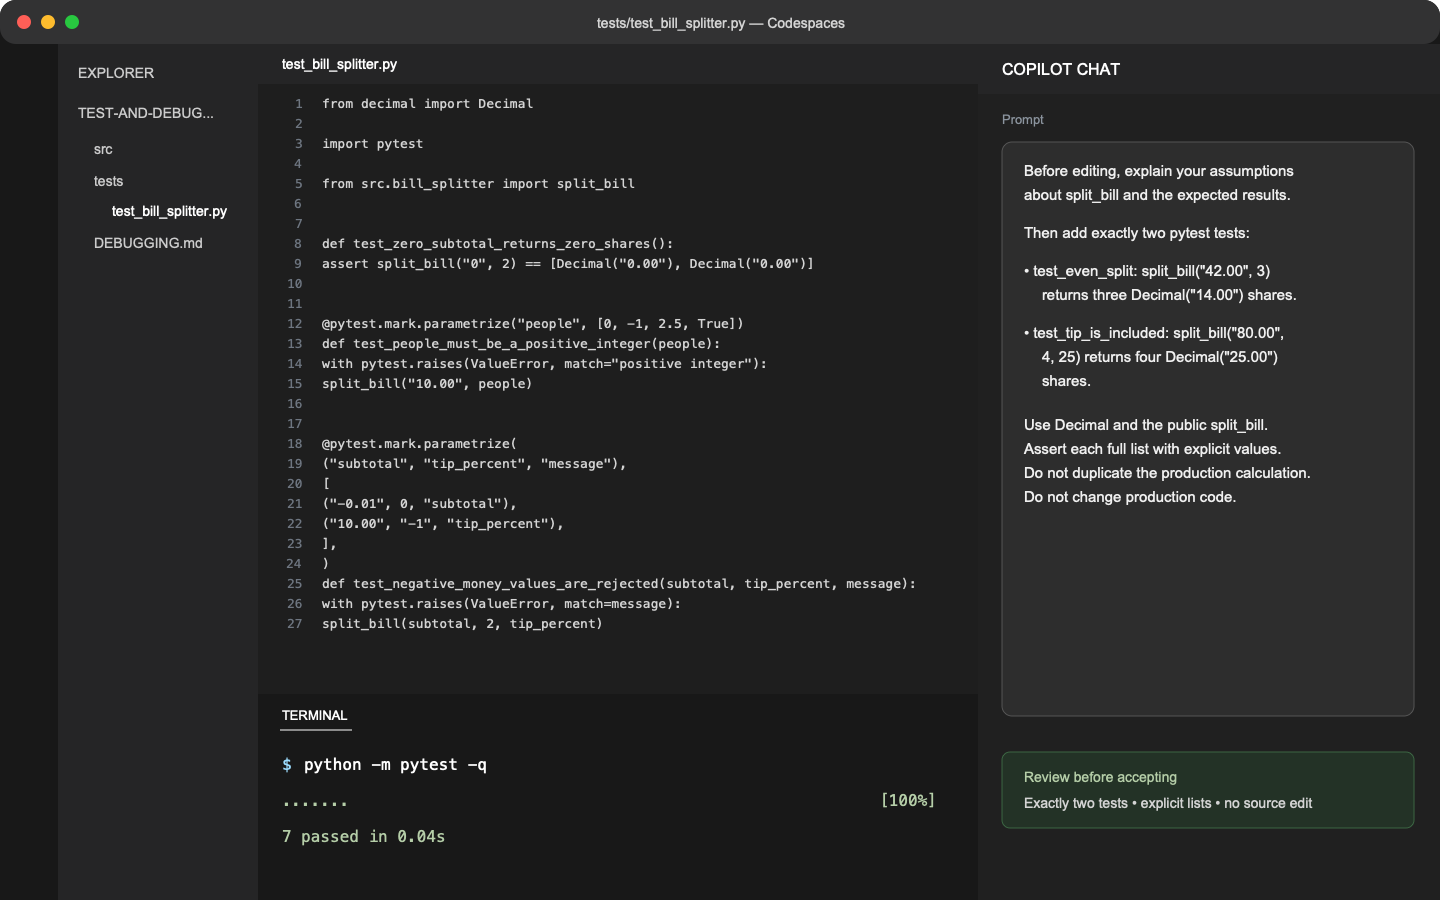
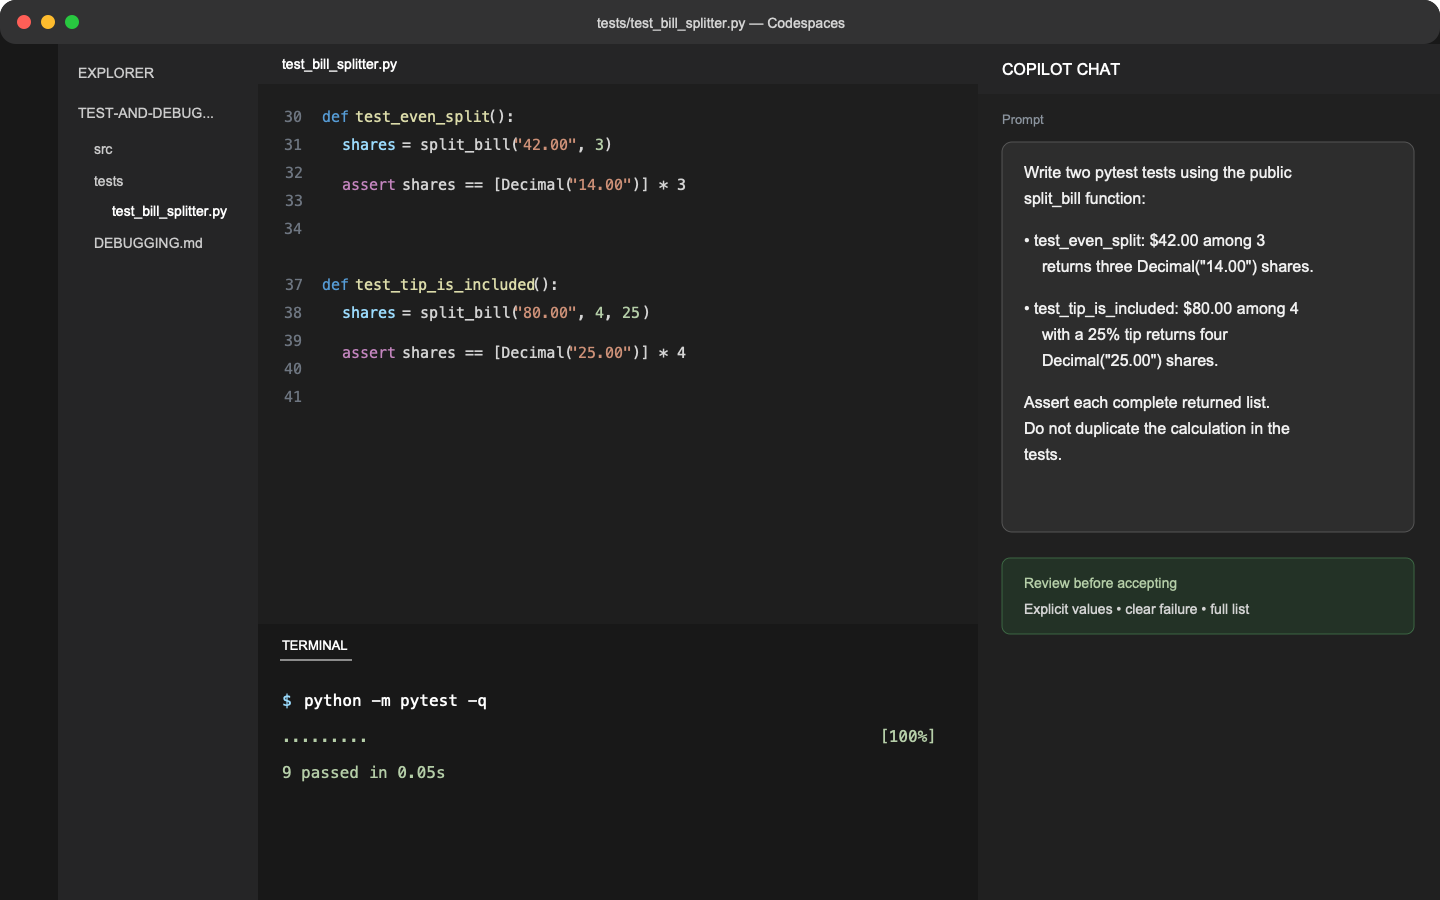
Remove Step 2 activity screenshot

diff --git a/.github/steps/2-step.md b/.github/steps/2-step.md
@@ -8,8 +8,6 @@ Tests generated from vague prompts often mirror the implementation instead of ch
 
 ### ⌨ Activity: Add two focused unit tests
 
-![Codespaces editor showing the starter bill splitter tests, the seven-test baseline result, and a focused test-writing prompt in Copilot Chat](../images/activity-focused-tests.png)
-
 1. In the **Codespace editor**, open `tests/test_bill_splitter.py`.
 
 1. In **Copilot Chat**, paste this prompt:
